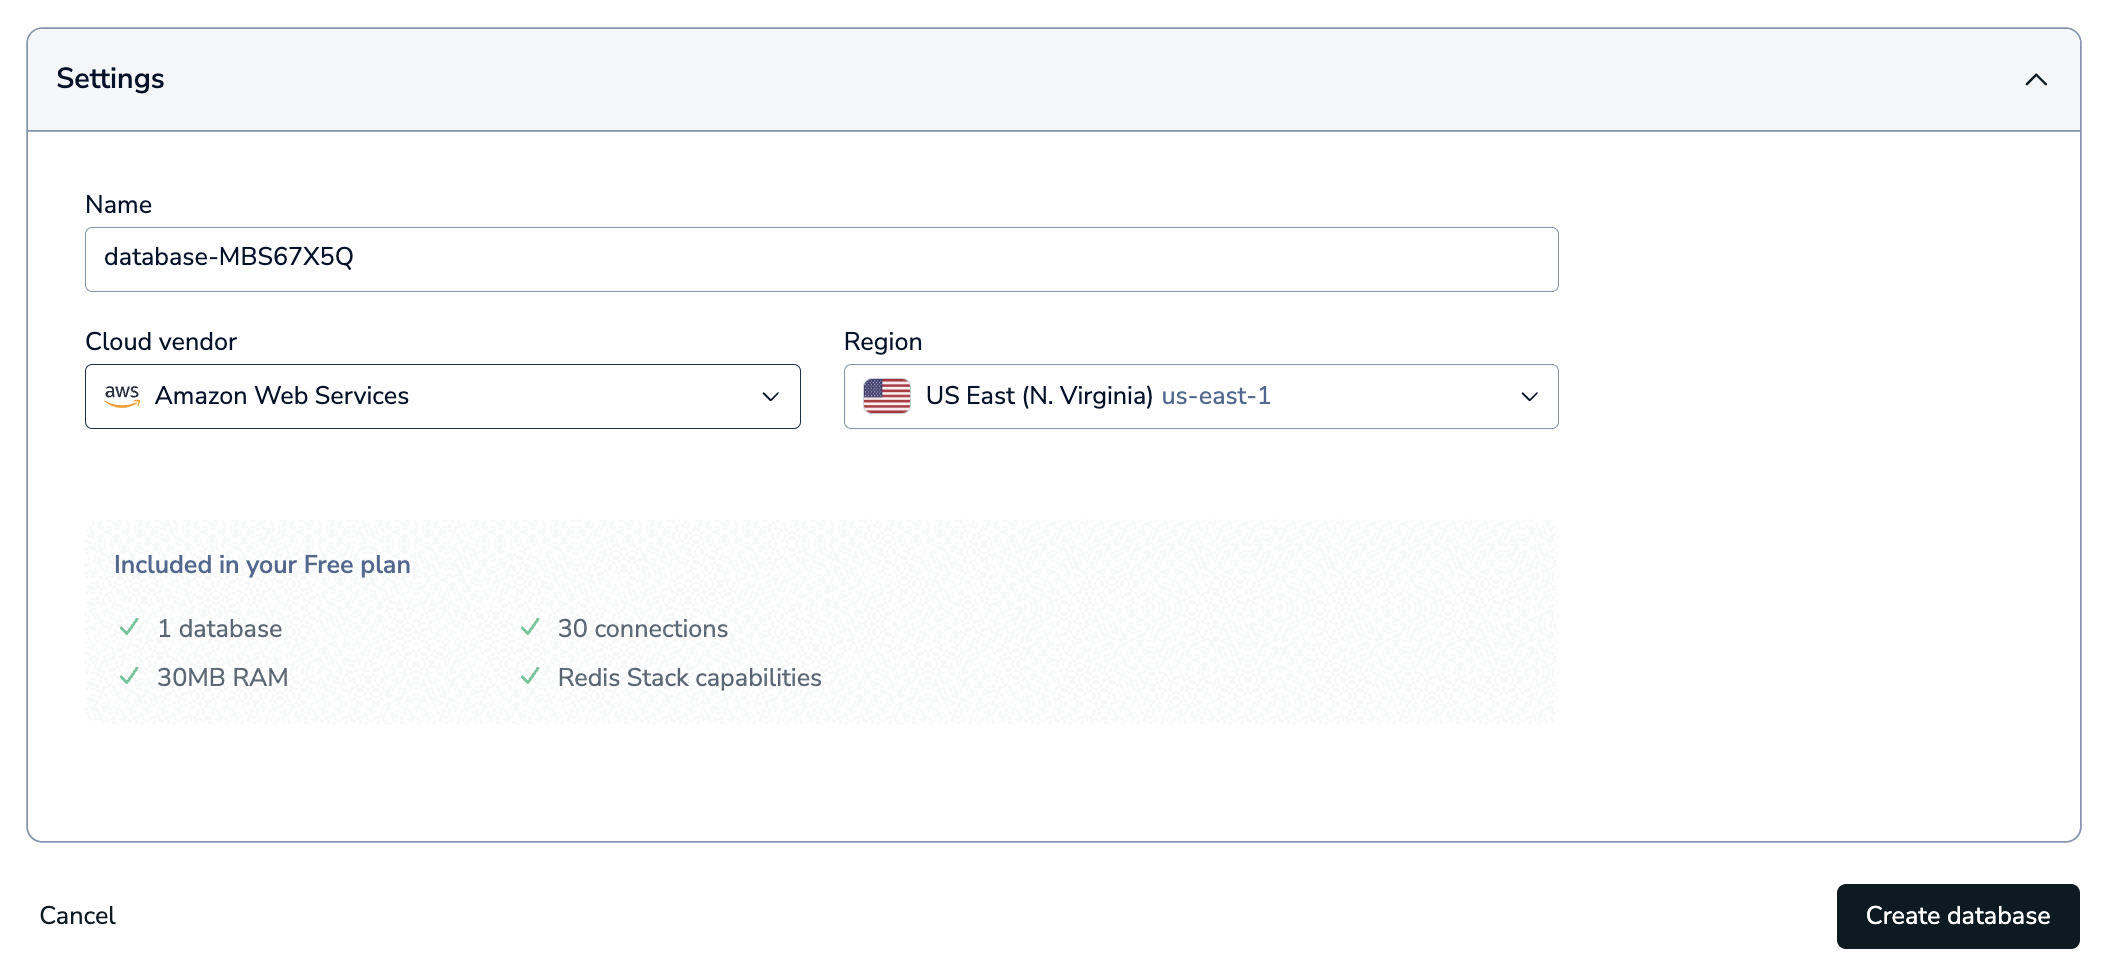
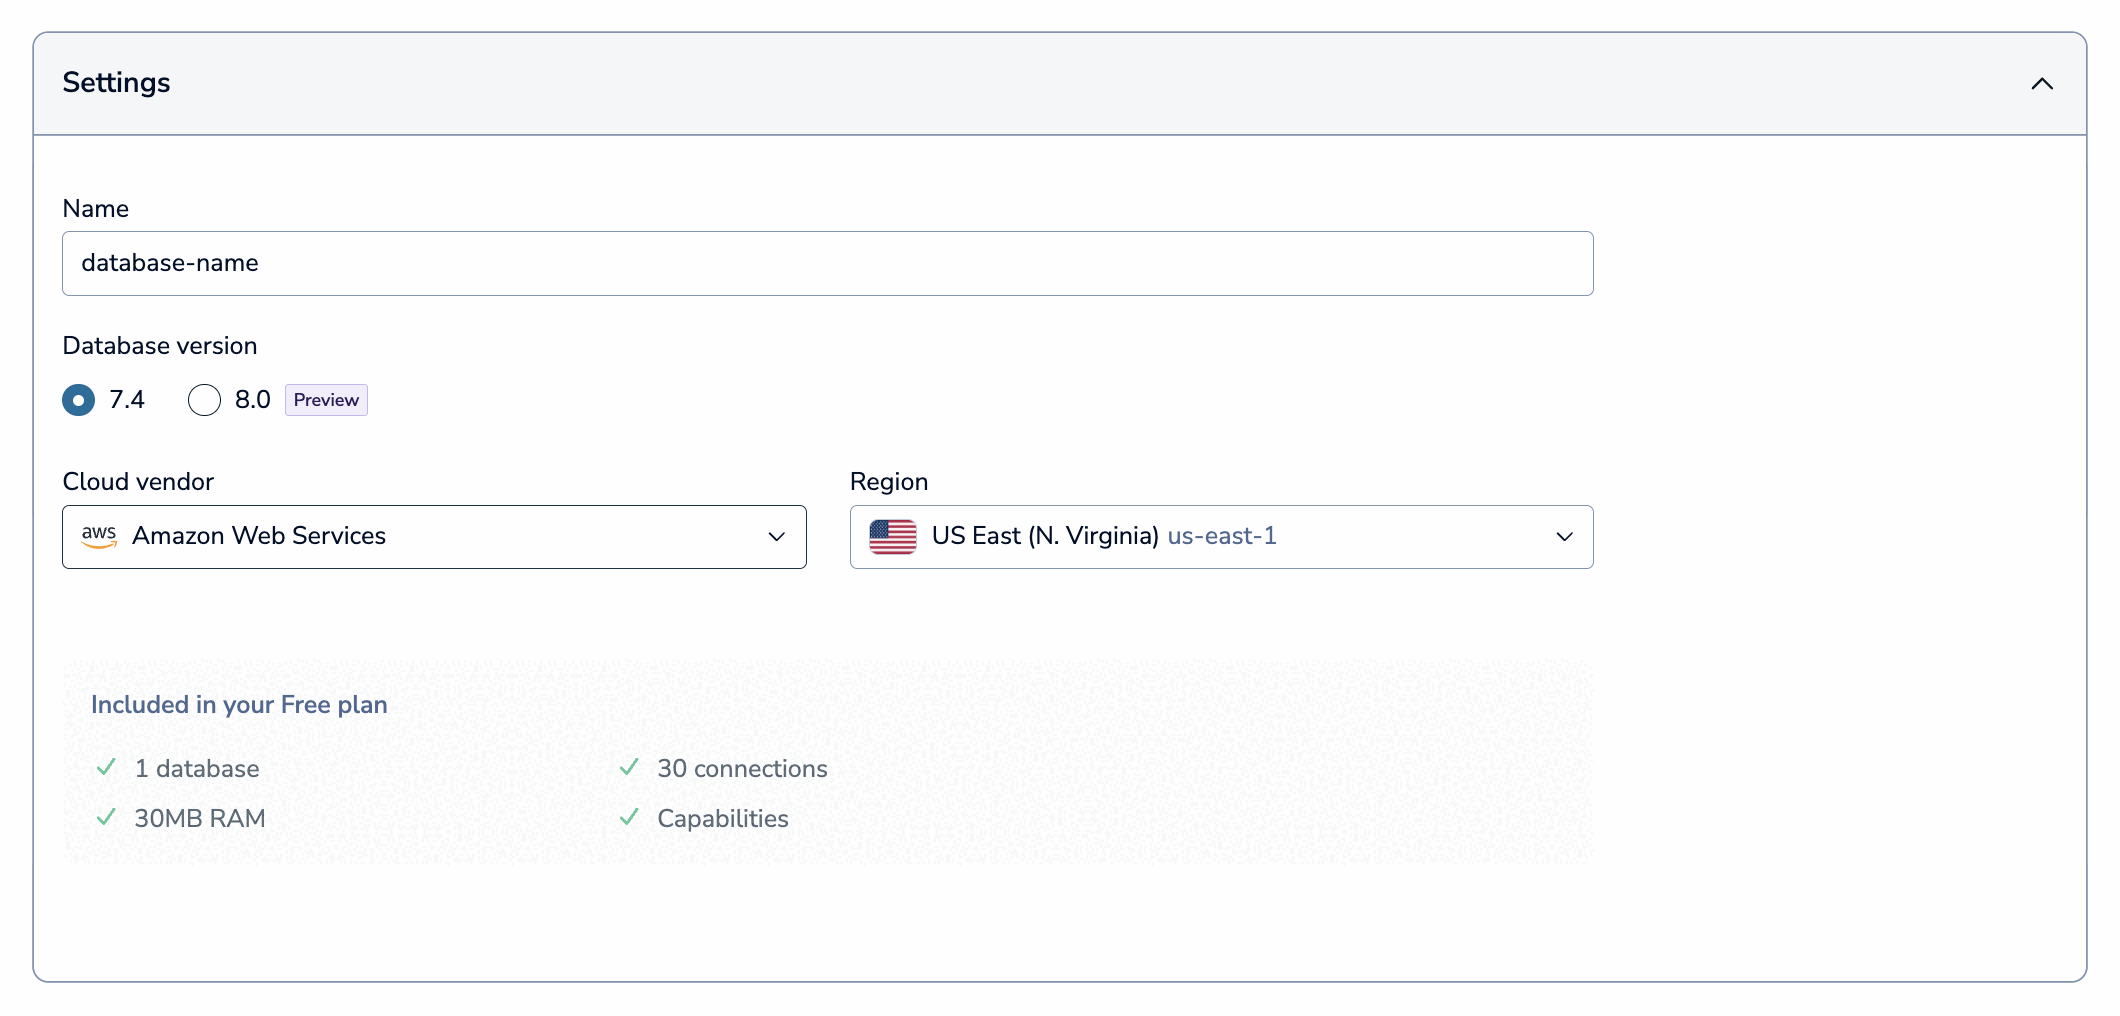
Include list of regions and update some screenshots

diff --git a/content/operate/rc/rc-quickstart.md b/content/operate/rc/rc-quickstart.md
@@ -49,7 +49,15 @@ If you want to create a different type of database, see the following guides:
 
     {{<image filename="images/rc/create-database-free-settings.png" alt="The database name, cloud vendor, and region settings.">}}
 
-1. Choose your **Cloud vendor** and **Region**.
+1. Select the **Database version** you want to use.
+
+    A preview of Redis 8.0 is available for databases in selected regions. Select **8.0** to use it. For more information on the changes in Redis 8.0, see [What's new in Redis 8.0]({{<relref "/develop/whats-new/8-0" >}}) and review the [breaking changes]({{<relref "/operate/rc/changelog/version-release-notes/8-0" >}}).
+
+1. Choose your **Cloud vendor** and **Region**. You can choose between **Amazon Web Services (AWS)**, **Google Cloud**, and **Microsoft Azure** for the Cloud Vendor. 
+
+    {{<image filename="images/rc/create-database-essentials-cloud-vendor.png" alt="The Cloud vendor settings.">}}
+
+    See [Supported regions]({{< relref "/operate/rc/supported-regions" >}}) for a list of supported regions by cloud vendor.
 
 1. Select **Create database**.
 

diff --git a/content/operate/rc/databases/create-database/create-free-database.md b/content/operate/rc/databases/create-database/create-free-database.md
@@ -29,7 +29,15 @@ You can only have one free database per account. If you already have a free data
 
 4. Redis will generate a database name for you. If you want to change it, you can do so in the **Database name** field. 
 
-5. Choose your **Cloud vendor** and **Region**.
+1. Select the **Database version** you want to use.
+
+    A preview of Redis 8.0 is available for databases in selected regions. Select **8.0** to use it. For more information on the changes in Redis 8.0, see [What's new in Redis 8.0]({{<relref "/develop/whats-new/8-0" >}}) and review the [breaking changes]({{<relref "/operate/rc/changelog/version-release-notes/8-0" >}}).
+
+1. Choose your **Cloud vendor** and **Region**. You can choose between **Amazon Web Services (AWS)**, **Google Cloud**, and **Microsoft Azure** for the Cloud Vendor. 
+
+    {{<image filename="images/rc/create-database-essentials-cloud-vendor.png" alt="The Cloud vendor settings.">}}
+
+    See [Supported regions]({{< relref "/operate/rc/supported-regions" >}}) for a list of supported regions by cloud vendor.
 
 6. Select **Create database**.
 

diff --git a/content/operate/rc/databases/create-database/create-essentials-database.md b/content/operate/rc/databases/create-database/create-essentials-database.md
@@ -35,9 +35,11 @@ This guide shows how to create a paid Essentials database.
 
 1. Redis will generate a database name for you. If you want to change it, you can do so in the **Name** field.  
 
-1. Choose a **Cloud vendor** for your database from the list.
+1. Choose a **Cloud vendor** for your database from the list. You can choose between **Amazon Web Services (AWS)**, **Google Cloud**, and **Microsoft Azure** for the Cloud Vendor. 
 
-1. Choose a **Region** from the list.
+    {{<image filename="images/rc/create-database-essentials-cloud-vendor-list.png" alt="The list of available cloud vendors.">}}
+
+1. Choose a **Region** from the list. See [Supported regions]({{< relref "/operate/rc/supported-regions" >}}) for a list of supported regions by cloud vendor.
 
 1. Choose your **High availability (replication)** settings.
 

diff --git a/content/operate/rc/databases/create-database/create-flex-database.md b/content/operate/rc/databases/create-database/create-flex-database.md
@@ -69,7 +69,7 @@ This guide shows how to create a Redis Flex database on Redis Cloud Essentials.
 
 1. Redis will generate a database name for you. If you want to change it, you can do so in the **Database name** field.  
 
-1. Choose a **Region** on Amazon Web Services for your database.
+1. Choose a **Region** on Amazon Web Services for your database. See [Supported regions]({{< relref "/operate/rc/supported-regions" >}}) for a list of supported regions by cloud vendor.
 
 1. Choose your **High availability (replication)** settings from the list. 
 
